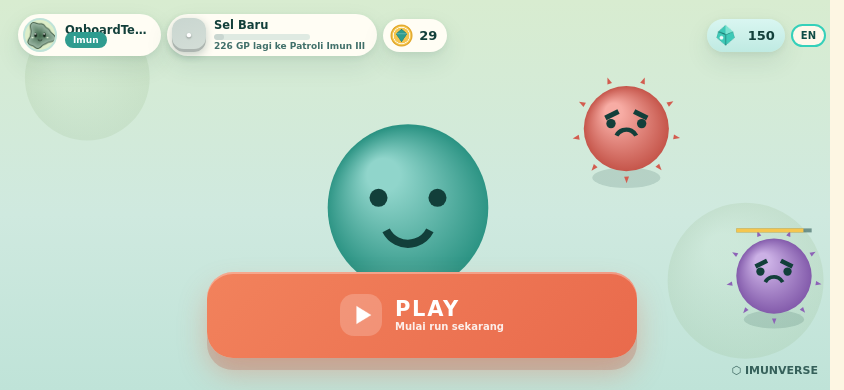
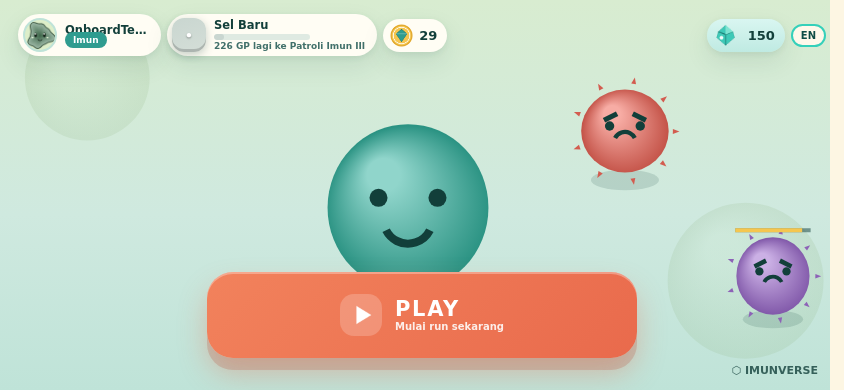
F25b: 5 polish HUD — XP ke kanan-atas (ghost trail dipertahankan), ikon menu = karakter game (virus/Mako), SERANG 96px + semua tombol bulat ber-bordir, menu2 geser ke tengah, kartu notif diperkecil — 7 suite hijau, bukti shots/100

diff --git a/index.html b/index.html
@@ -9,7 +9,7 @@
   <meta name="theme-color" content="#fdf6e3" />
   <meta name="description" content="Imunverse — roguelike survival bertema sel imun. Bertahanlah di dalam tubuh melawan gelombang patogen!" />
   <title>Imunverse — Roguelike Survival Sel Imun</title>
-  <link rel="stylesheet" href="styles/main.css?v=25a" />
+  <link rel="stylesheet" href="styles/main.css?v=25b" />
   <link rel="stylesheet" href="styles/dashboard-focus.css?v=1" />
 </head>
 <body>
@@ -453,7 +453,7 @@
             <button id="btn-pause" class="btn btn-pause" aria-label="Jeda"><img src="assets/sprites/icon_pause.png" alt="" /></button>
           </div>
         </div>
-        <button id="hud-menu-toggle" class="hud-menu-toggle" aria-label="Menu gameplay" aria-expanded="false">☰<span id="menu1-badge" class="menu-badge hidden"></span></button>
+        <button id="hud-menu-toggle" class="hud-menu-toggle" aria-label="Menu gameplay" aria-expanded="false"><img src="assets/sprites/enemy_bakteri.png" alt="" /><span id="menu1-badge" class="menu-badge hidden"></span></button>
         <div id="hud-game-menu" class="hud-game-menu hidden" aria-label="Menu gameplay">
           <button class="hud-menu-link" data-menu-screen="campaign"><img src="assets/sprites/icon_sirkulasi.png" alt="" />Campaign</button>
           <button class="hud-menu-link" data-menu-screen="rank"><img src="assets/sprites/icon_trophy.png" alt="" />Rank</button>
@@ -461,7 +461,7 @@
           <button class="hud-menu-link" data-menu-screen="bp"><img src="assets/sprites/icon_bolt.png" alt="" />Battle Pass</button>
         </div>
         <!-- F25: MENU 2 — pojok kanan-bawah, melebar ke kiri: Hero/Collections/Shop/Battle/Squad -->
-        <button id="hud-menu2-toggle" class="hud-menu2-toggle" aria-label="Menu hero &amp; toko" aria-expanded="false"><img src="assets/sprites/icon_heroes.png" alt="" /><span id="menu2-badge" class="menu-badge hidden"></span></button>
+        <button id="hud-menu2-toggle" class="hud-menu2-toggle" aria-label="Menu hero &amp; toko" aria-expanded="false"><img src="assets/sprites/portrait_macrophage.png" alt="" /><span id="menu2-badge" class="menu-badge hidden"></span></button>
         <div id="hud-game-menu2" class="hud-game-menu2 hidden" aria-label="Menu hero, koleksi &amp; toko">
           <button class="hud-menu2-link" data-menu2-screen="roster"><img src="assets/sprites/icon_heroes.png" alt="" /><span>Heroes</span></button>
           <button class="hud-menu2-link" data-menu2-screen="codex"><img src="assets/sprites/icon_scope.png" alt="" /><span>Collection</span></button>
@@ -478,6 +478,14 @@
           <div id="hud-quests-body" class="hud-quests-body"><!-- diisi JS --></div>
         </div>
         <div id="hud-buffs" class="hud-buffs"></div>
+        <!-- F25b: XP progres pindah ke kanan-atas (konvensi UI game); HP tetap kiri-bawah -->
+        <div id="hud-xp-top" class="hud-xp-top" aria-label="Progres XP">
+          <img class="hud-xp-ico" src="assets/sprites/icon_star.png" alt="XP" />
+          <div class="hud-xp-track">
+            <div id="hud-xp-ghost" class="hud-xp-ghost"></div>
+            <div id="hud-xp-fill" class="hud-xp-fill"></div>
+          </div>
+        </div>
         <canvas id="hud-minimap" width="120" height="120" class="hud-minimap"></canvas>
         <div id="hud-announce" class="hud-announce hidden"></div>
         <div id="hud-gate" class="hud-gate hidden">⚑ <span data-i18n="KALAHKAN PENJAGA!">KALAHKAN PENJAGA!</span><span id="hud-gate-bank" class="hud-gate-bank hidden"></span></div>
@@ -500,13 +508,6 @@
               <img class="heart" src="assets/sprites/icon_heart.png" alt="" />
               <div class="hud-hp-track"><div id="hud-hp-fill" class="hud-hp-fill"></div></div>
               <span id="hud-hp-text" class="hud-hp-text">100</span>
-            </div>
-            <div class="xp-row">
-              <div class="hud-xp-track">
-                <div id="hud-xp-ghost" class="hud-xp-ghost"></div>
-                <div id="hud-xp-fill" class="hud-xp-fill"></div>
-              </div>
-              <img class="hud-xp-ico" src="assets/sprites/icon_star.png" alt="XP" />
             </div>
           </div>
         </div>
@@ -655,7 +656,7 @@
     <div id="toasts"></div>
   </div>
 
-  <script type="module" src="js/main.js?v=25a"></script>
+  <script type="module" src="js/main.js?v=25b"></script>
   <div id="rotate-hud" aria-hidden="true">
     <div class="rh-phone"><span></span></div>
     <b>Putar HP-mu</b>

diff --git a/styles/dashboard-focus.css b/styles/dashboard-focus.css
@@ -465,3 +465,75 @@
   #screen-hud .hud-game-menu2 { right: 7px; bottom: 132px; }
   #screen-hud .hud-quests { left: 7px; width: 150px; }
 }
+
+/* ---------------------------------------------------------------
+   F25b — 5 POLISH TERAKHIR SEBELUM F26 (arah pemilik)
+   1) XP progres → kanan-atas (konvensi UI game)
+   2) Ikon menu = karakter game (virus / hero), bukan garis-3/profil
+   3) SERANG lebih besar, ikon tepat, semuanya bulat ber-bordir
+   4) Menu kanan-bawah geser ke tengah — bebas dari SERANG & skill
+   5) Kartu notif diperkecil — gameplay dominan
+   --------------------------------------------------------------- */
+
+/* 1) XP kanan-atas */
+#screen-hud .status-bars .xp-row { display: none; } /* sisa markup lama (jika ada) */
+#screen-hud .hud-xp-top {
+  position: absolute; top: 46px; right: 12px; z-index: 6;
+  display: flex; align-items: center; gap: 5px;
+  padding: 4px 9px; border-radius: 999px;
+  background: rgba(255, 253, 244, 0.78); box-shadow: 0 2px 6px rgba(31, 95, 87, 0.12);
+}
+#screen-hud .hud-xp-top .hud-xp-ico { width: 13px; height: 13px; }
+#screen-hud .hud-xp-top .hud-xp-track {
+  width: 116px; height: 6px; border-radius: 3px;
+  background: rgba(47, 156, 143, 0.22); overflow: hidden; position: relative;
+}
+#screen-hud .hud-xp-top .hud-xp-fill { height: 100%; border-radius: 3px; background: linear-gradient(90deg, #8fe8d2, #f5c64f); }
+#screen-hud .hud-xp-top .hud-xp-ghost { height: 100%; border-radius: 3px; background: rgba(255, 255, 255, 0.85); }
+#screen-hud .hud-minimap { top: 80px; }
+#screen-hud .hud-buffs { top: 80px; }
+
+/* 2) Ikon menu = karakter game; tombol bulat ber-bordir */
+#screen-hud .hud-menu-toggle img { width: 24px; height: 24px; object-fit: contain; }
+#screen-hud .hud-menu-toggle {
+  width: 36px; height: 36px; border-radius: 50%;
+  border: 2px solid rgba(255, 255, 255, 0.92);
+  display: grid; place-items: center; background: rgba(255, 253, 244, 0.92);
+}
+#screen-hud .hud-menu2-toggle {
+  right: 168px; bottom: 104px;  /* 4) geser ke tengah — bebas dari SERANG/skill */
+  width: 46px; height: 46px; border-radius: 50%;
+  border: 2.5px solid rgba(255, 255, 255, 0.95);
+  background: radial-gradient(circle at 34% 30%, #fffdf4, #e8f4ea);
+}
+#screen-hud .hud-menu2-toggle img { width: 28px; height: 28px; object-fit: contain; border-radius: 50%; }
+#screen-hud .hud-game-menu2 { right: 168px; bottom: 158px; }
+#screen-hud .hud-menu2-link { border-radius: 50%; border: 2px solid rgba(255, 255, 255, 0.9); width: 56px; height: 56px; }
+#screen-hud .menu-badge { border: 1.5px solid #fff; }
+
+/* 3) SERANG: lebih besar, ikon pedang jelas, bulat ber-bordir */
+#screen-hud .fire-btn {
+  width: 96px; height: 96px; min-height: 96px; border-radius: 50%;
+  border: 4px solid #fff; font-size: 11px; bottom: 14px;
+  box-shadow: 0 6px 0 #c46a4a, 0 12px 24px rgba(0, 0, 0, 0.3), inset 0 0 0 3px rgba(255, 255, 255, 0.35);
+}
+#screen-hud .fire-btn img { width: 36px; height: 36px; }
+#screen-hud .ability-btn { border-radius: 50%; border-width: 2px; } /* ikut bulat ber-bordir */
+#screen-hud .ability-btn.ult { width: 58px; height: 58px; border-radius: 50%; justify-self: end; }
+#screen-hud .ability-btn.ult .sk-ico { width: 26px; height: 26px; }
+#screen-hud .ability-bar { grid-template-columns: repeat(2, 56px); gap: 6px; }
+
+/* 5) Kartu notif diperkecil — gameplay dominan */
+body.in-run .toast { padding: 5px 10px; font-size: 10.5px; max-width: 250px; border-left-width: 4px; border-radius: 10px; }
+#screen-hud .tut-bubble { max-width: 58%; padding: 8px 13px; font-size: 11.5px; border-width: 2px; }
+#screen-hud .hud-announce { max-width: 190px; font-size: 10.5px; }
+
+@media (max-width: 390px) {
+  #screen-hud .hud-xp-top { top: 40px; right: 7px; }
+  #screen-hud .hud-xp-top .hud-xp-track { width: 96px; }
+  #screen-hud .hud-minimap { top: 72px; right: 7px; }
+  #screen-hud .hud-menu2-toggle { right: 130px; bottom: 92px; width: 42px; height: 42px; }
+  #screen-hud .hud-game-menu2 { right: 130px; bottom: 142px; }
+  #screen-hud .fire-btn { width: 84px; height: 84px; min-height: 84px; }
+  #screen-hud .fire-btn img { width: 31px; height: 31px; }
+}

diff --git a/js/core/version.js b/js/core/version.js
@@ -2,4 +2,4 @@
  * version.js — Versi build aset. Naikkan setiap rilis agar browser pemain
  * memuat ulang file (cache-busting), apa pun server statisnya.
  */
-export const BUILD = '25a';
+export const BUILD = '25b';

diff --git a/ROADMAP.md b/ROADMAP.md
@@ -458,6 +458,16 @@ Semua parameter hidup di **data/retention.json** (baru) — tanpa angka keras di
 - [x] pointer-events:auto untuk semua elemen interaktif HUD baru (screen passive); buster `25a`; i18n +9 (Misi/AMBIL/KLAIM dst).
 - **Kriteria lulus:** ONBOARD **18/18** (+hud25-quests-and-notimer, +quest-manual-claim-flow, +menu2-opens-left, +menu2-gate-blocked), CORE 20/20, RET 20/20, ECO 14/14, BAL 13/13, PROG 18/18, PURPOSE 13/13; bukti `shots/99-hud-menus`.
 
+## Fase 25b — 5 Polish HUD Terakhir (arah pemilik, sebelum F26) ✅
+**Arahan pemilik:** (1) XP progres pindah ke kanan-atas; (2) ikon menu = karakter game (hero/virus), bukan garis-3/foto profil; (3) SERANG lebih besar + ikon tepat, semua tombol bulat ber-bordir; (4) menu kanan-bawah geser ke tengah agar tak mengganggu SERANG & skill; (5) kartu notif diperkecil agar gameplay dominan.
+- [x] **XP kanan-atas**: chip pill baru `#hud-xp-top` (bintang + track 116px, ghost trail dipertahankan); xp-row lama dihapus dari status kiri-bawah (HP saja); minimap & buff turun sedikit.
+- [x] **Ikon menu tematik**: menu 1 ☰ → **virus bakteri** (enemy_bakteri), menu 2 → **wajah Mako** (portrait_macrophage); kedua tombol bulat ber-border putih — tema game, bukan aplikasi.
+- [x] **SERANG 96px** (dari 84) bulat + inset border; skill TAUNT/SIKAP & ult DEVOUR ikut **bulat ber-bordir** (grid 56px).
+- [x] **Menu 2 digeser ke tengah** (right 168px, bottom 104px) + baris menunya — bebas dari cluster SERANG/skill di pojok.
+- [x] **Notif ringkas**: toast in-run 10.5px, bubble tutorial 58%/11.5px, announce 190px — arena makin dominan.
+- [x] buster `25b`.
+- **Kriteria lulus:** 7 suite hijau (ONBOARD 18/18, CORE 20/20, RET 20/20, ECO 14/14, BAL 13/13, PROG 18/18, PURPOSE 13/13); bukti `shots/100-hud-polish` (geometri terukur: XP kanan-atas, fire 96px radius 50%, menu2 di tengah-kanan).
+
 ## Fase 8.2 — Koreksi: Tombol Hud Klik-Riil + Detail Upgrade di Menu Heroes ✅
 **Koreksi user:** (1) tombol TEMBAK tidak berfungsi & menutupi tombol jurus; (2) tombol jurus juga tidak berfungsi; (3) menu Heroes harus punya halaman detail per hero berisi upgrade persenjataan/damage/pasukan — "kalau sudah dibuat di mana letaknya? kalau ada berarti salah tempat".
 - [x] **AKAR MASALAH (1)&(2)**: `#screen-hud` ber-class `.screen.passive` = `pointer-events: none` (biar canvas tetap menerima joystick) → SEMUA tombol HUD tidak pernah bisa diklik. E2e lama memanggil API langsung (bukan klik) — lubang verifikasi; kini semua tes tombol memakai **klik mouse riil**.
